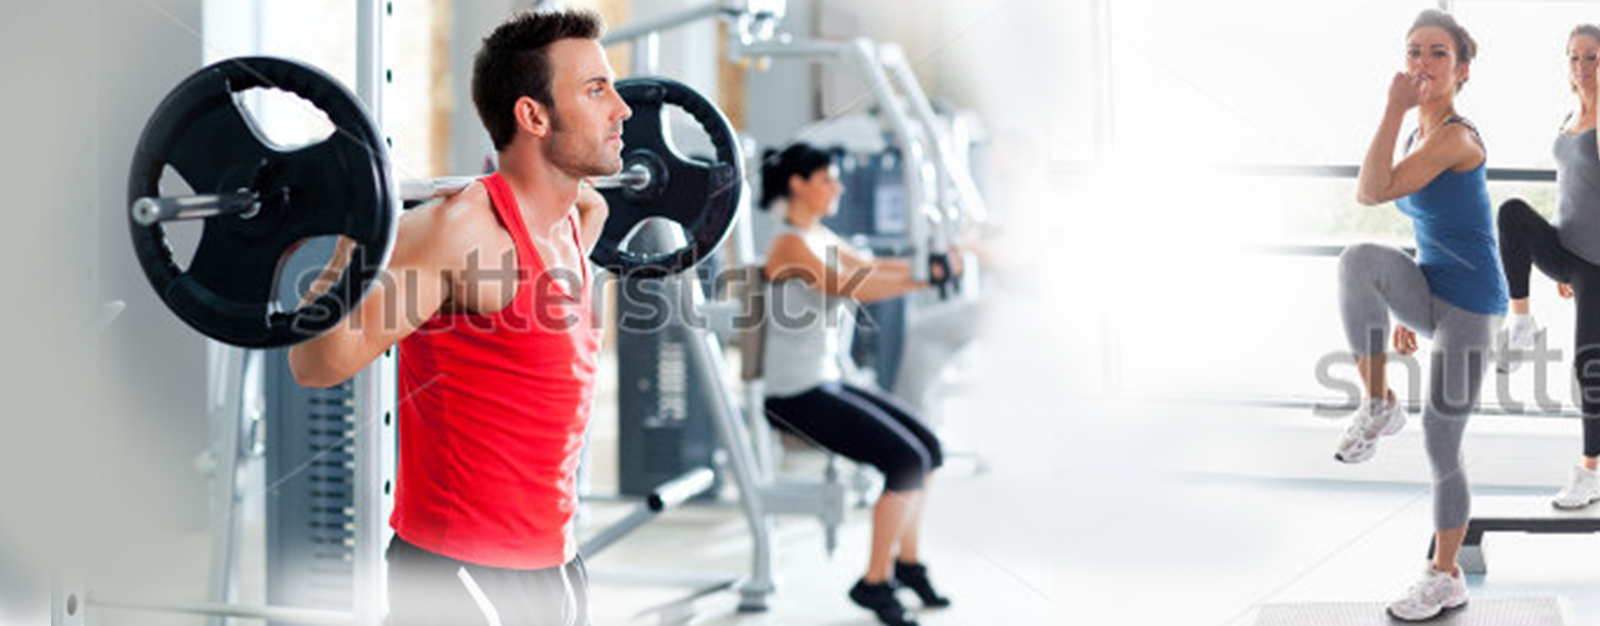
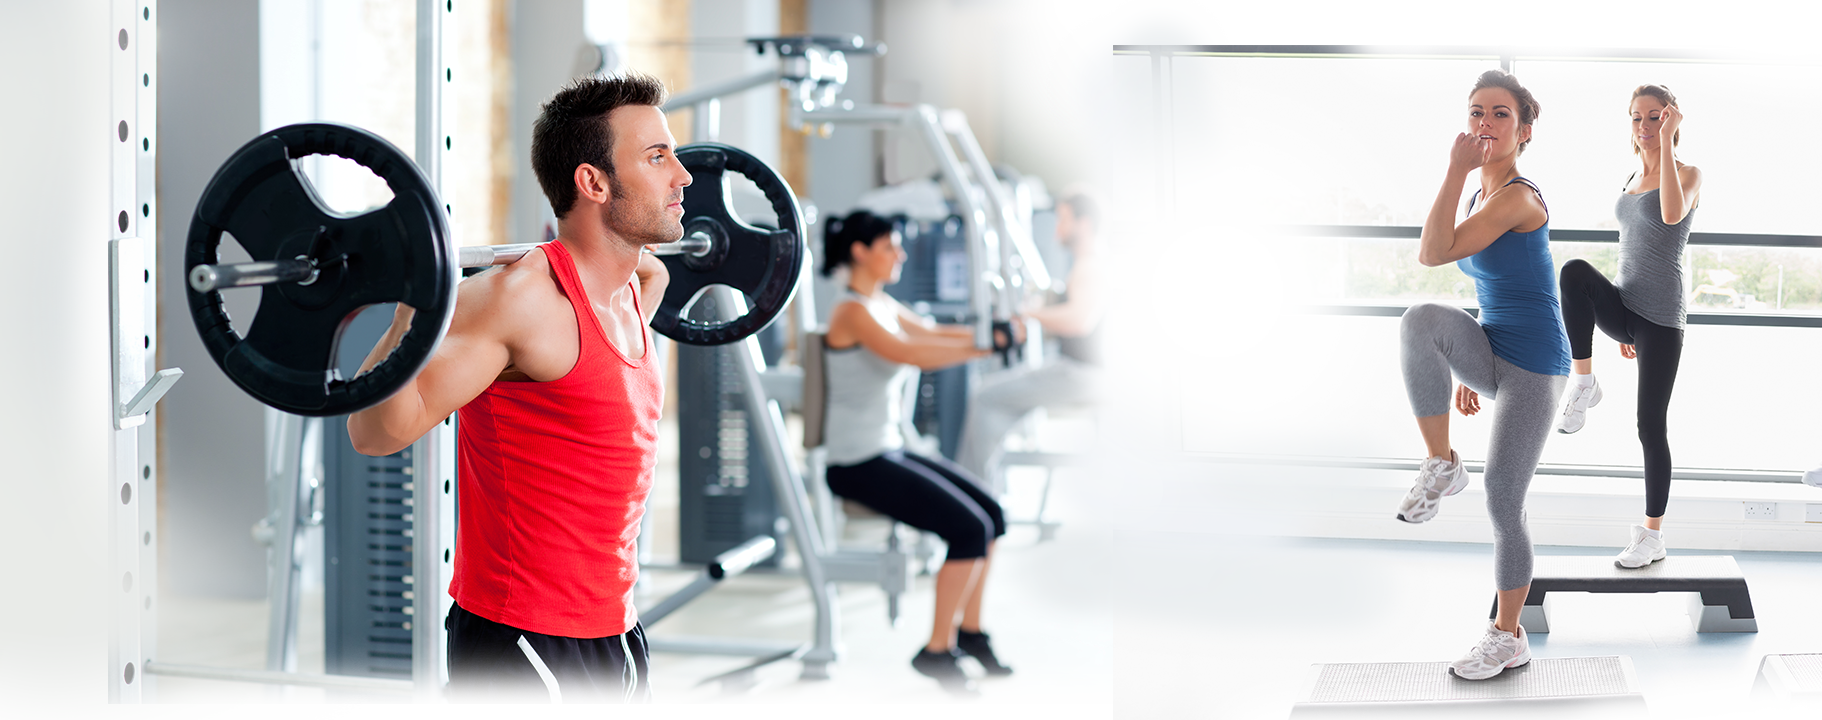
adding new high res images

diff --git a/Beta/assets/js/myPanel.js b/Beta/assets/js/myPanel.js
@@ -8,7 +8,7 @@ if(!localStorage['uToken'] || localStorage['fitTime'] < moment().subtract('minut
 $(document).ready(function(){
 
 	/* Settings */
-	var backArr = ['assets/img/background.png','assets/img/background2.jpg','assets/img/background3.jpg','assets/img/background4.jpg','assets/img/background5.jpg'];
+	var backArr = ['assets/img/background1.png','assets/img/background2.png'];
 	var rand = backArr[Math.floor(Math.random() * backArr.length)];
 
 	$('body').css('background', "url('" + rand + "') no-repeat;");

diff --git a/Beta/assets/css/landing.css b/Beta/assets/css/landing.css
@@ -97,7 +97,7 @@
 	background: url('../img/greenBackground.png');
 	background-size:100%;
 	height: 100px;
-	margin-top: 42px;
+	margin-top: 44px;
 }
 
 #heroOverlayTitle {
